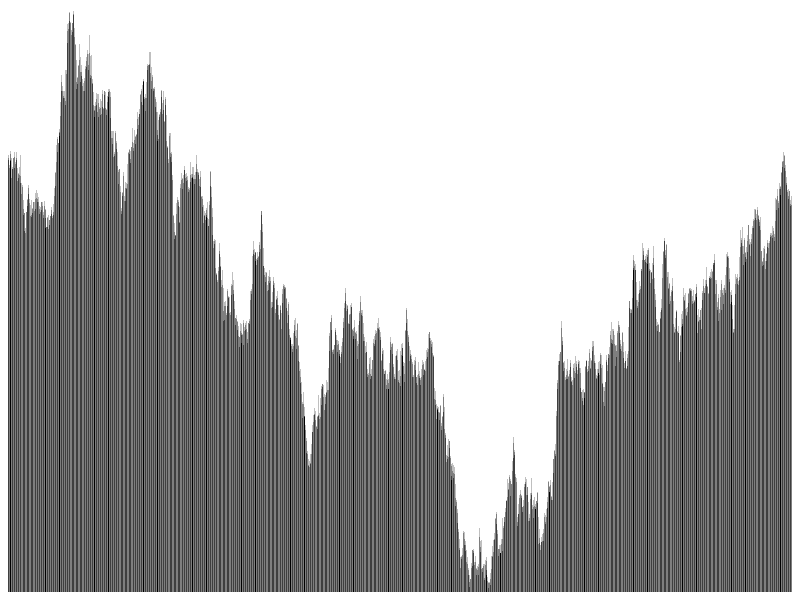
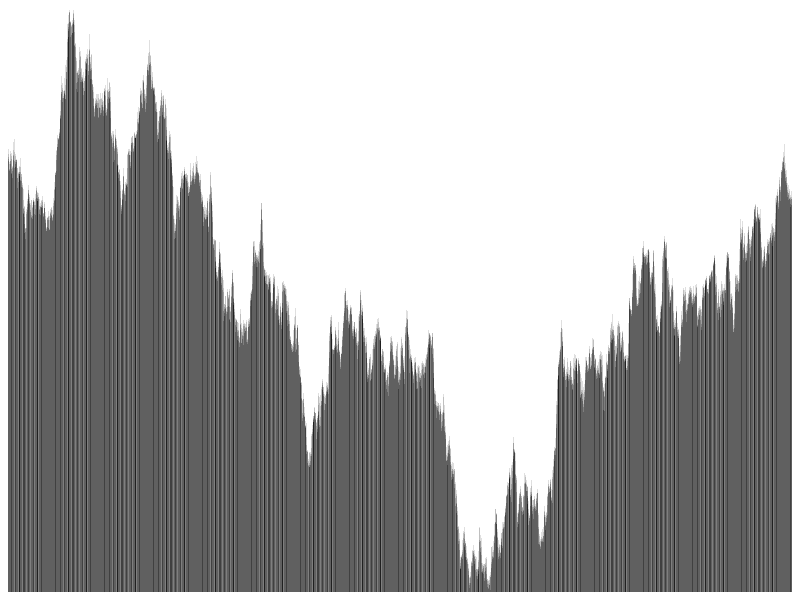
feat: series-webgl-area example and performance test

diff --git a/examples/series-webgl-point/index.js b/examples/series-webgl-point/index.js
@@ -1,4 +1,4 @@
-const data = fc.randomGeometricBrownianMotion().steps(1e6)(1);
+const data = fc.randomGeometricBrownianMotion().steps(1e4)(1);
 
 const extent = fc.extentLinear();
 
@@ -24,9 +24,7 @@ const series = fc
     .defined(() => true)
     .equals((previousData, data) => previousData.length > 0);
 
-const pixels = new Uint8Array(
-    gl.drawingBufferWidth * gl.drawingBufferHeight * 4
-);
+let pixels = null;
 let frame = 0;
 
 d3.select(container)
@@ -42,6 +40,11 @@ d3.select(container)
         yScale.range([height, 0]);
     })
     .on('draw', () => {
+        if (pixels == null) {
+            pixels = new Uint8Array(
+                gl.drawingBufferWidth * gl.drawingBufferHeight * 4
+            );
+        }
         performance.mark(`draw-start-${frame}`);
         series(data);
         // Force GPU to complete rendering to allow accurate performance measurements to be taken

diff --git a/examples/series-webgl-line/index.js b/examples/series-webgl-line/index.js
@@ -20,11 +20,11 @@ const series = fc
     .yScale(yScale)
     .context(gl)
     .crossValue((_, i) => i)
-    .mainValue(d => d);
+    .mainValue(d => d)
+    .defined(() => true)
+    .equals(previousData => previousData.length > 0);
 
-const pixels = new Uint8Array(
-    gl.drawingBufferWidth * gl.drawingBufferHeight * 4
-);
+let pixels = null;
 let frame = 0;
 
 d3.select(container)
@@ -40,6 +40,11 @@ d3.select(container)
         yScale.range([height, 0]);
     })
     .on('draw', () => {
+        if (pixels == null) {
+            pixels = new Uint8Array(
+                gl.drawingBufferWidth * gl.drawingBufferHeight * 4
+            );
+        }
         performance.mark(`draw-start-${frame}`);
         series(data);
         // Force GPU to complete rendering to allow accurate performance measurements to be taken

diff --git a/examples/series-webgl-area/__tests__/index.js b/examples/series-webgl-area/__tests__/index.js
@@ -1,0 +1,22 @@
+const { join } = require('path');
+
+it('should have consistent performance', async () => {
+    await expect(async () => {
+        await page.goto('file://' + join(__dirname, '..', 'index.html'));
+        await d3fc.waitForEmptyRedrawQueue();
+        for (let i = 1; i < 6; i += 1) {
+            await page.click('d3fc-canvas');
+            await d3fc.waitForEmptyRedrawQueue();
+        }
+    }).toHaveConsistentPerformance();
+
+    expect(page).not.toHaveLogs();
+
+    const image = await page.screenshot();
+    expect(image).toMatchImageSnapshot();
+});
+
+it('should look good on the website!', async () => {
+    await page.goto('file://' + join(__dirname, '..', 'index.html'));
+    await page.screenshot({ path: join(__dirname, '..', 'screenshot.png') });
+});

diff --git a/examples/series-webgl-area/index.js b/examples/series-webgl-area/index.js
@@ -15,13 +15,12 @@ const gl = d3
     .getContext('webgl');
 
 const series = fc
-    .seriesWebglBar()
+    .seriesWebglArea()
     .xScale(xScale)
     .yScale(yScale)
     .context(gl)
-    .crossValue((d, i) => i)
+    .crossValue((_, i) => i)
     .mainValue(d => d)
-    .bandwidth(0.05)
     .defined(() => true)
     .equals(previousData => previousData.length > 0);
 
@@ -33,7 +32,6 @@ d3.select(container)
         const domain = xScale.domain();
         const max = Math.round(domain[1] / 2);
         xScale.domain([0, max]);
-        series.bandwidth(series.bandwidth()() * 2);
         container.requestRedraw();
     })
     .on('measure', () => {

diff --git a/examples/series-webgl-line/README.md b/examples/series-webgl-line/README.md
@@ -1,3 +1,3 @@
 # Series Webgl Line
 
-Demonstrates rendering 100,000 data points as a line from a static data set. Click the chart to zoom the x domain.
+Demonstrates rendering 10,000 data points as a line from a static data set. Click the chart to zoom the x domain.

diff --git a/examples/series-webgl-point/README.md b/examples/series-webgl-point/README.md
@@ -1,3 +1,3 @@
 # Series Webgl Point
 
-Demonstrates rendering 100,000 points from a static data set. Click the chart to zoom the x domain.
+Demonstrates rendering 10,000 points from a static data set. Click the chart to zoom the x domain.

diff --git a/examples/series-webgl-bar/README.md b/examples/series-webgl-bar/README.md
@@ -1,3 +1,3 @@
 # Series Webgl Bar
 
-Demonstrates rendering 100,000 bars from a static data set. Click the chart to zoom the x domain.
+Demonstrates rendering 10,000 bars from a static data set. Click the chart to zoom the x domain.

diff --git a/examples/series-webgl-area/README.md b/examples/series-webgl-area/README.md
@@ -1,0 +1,3 @@
+# Series Webgl Area
+
+Demonstrates rendering 10,000 data points as an area from a static data set. Click the chart to zoom the x domain.
